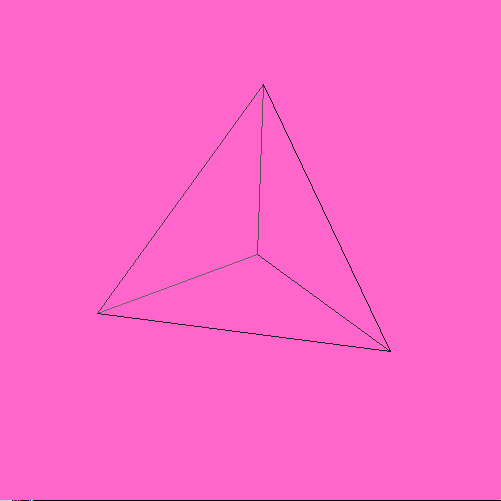
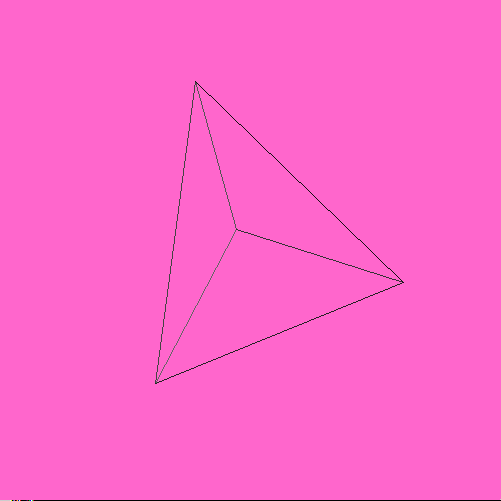
I filled the faces of the tetrahedron with color and added a loop for some basic animation (beware of infinite loop and file size).
Evidently Blender (and similar software) DO store info on the faces of the vertices. An algorithm for breaking general polyhedra (mesh models made by artists) into triangular faces has time complexity that outweighs the space cost of storing face info.

Note that tetrahedron vertices are still given inside of Cube.

diff --git a/Computer graphics algos/main.cpp b/Computer graphics algos/main.cpp
@@ -38,39 +38,47 @@ int main()
 
 		std::vector<Vec4> localCubeVerts = cube.getLocalCubeVerts();
 
-		/*Construct a Mesh that (possibly) applies transformations (rot, scale, trans) on the cube
-		* - this converts from "local" to "world" coordinates
-		*/
-		Vec4 rot(M_PI / 4, M_PI/6, M_PI/5, 0.0f); //units: radians, rotate about y-axis 45 degrees (w = 0.0f here?) 
-		Vec4 scale(1.0f, 1.0f, 1.0f, 0.0f); //again, not sure if w = 0.0f or 1.0f here 
-		Vec4 trans(0.0f, 0.0f, -3.0f, 1.0f); //ensure that z < 0.0f  (default camera pos) for zInit + zTrans
+		int loopCount = 0; 
 
-		Mesh mesh(localCubeVerts, trans, rot, scale);
-
-		std::vector<Vec4> worldCubeVerts = mesh.applyModelMatrix(); 
-
-		float fovY = (M_PI / 2);
-		Camera camera(fovY);
-
-		auto screenSpaceCubeVerts = camera.projectToScreen(worldCubeVerts, screenWidth, screenHeight);
-
-		std::vector<Color> colors; 
-		auto colorEnums = Color::getGrayColorPalette(); 
-		for (const auto& current : colorEnums)
+		while (true)
 		{
-			colors.push_back(Color(current));
-		}
-		//auto rasterPoints = cube.rasterize(screenSpaceCubeVerts);
-		auto rasteredPixels = cube.rasterize(screenSpaceCubeVerts, colors);
+			/*Construct a Mesh that (possibly) applies transformations (rot, scale, trans) on the cube
+			* - this converts from "local" to "world" coordinates
+			*/
+			Vec4 rot(M_PI/6.0f*loopCount, M_PI/5.0f * loopCount, M_PI / 4.0f * loopCount, 0.0f); //units: radians, rotate about y-axis 45 degrees (w = 0.0f here?) 
+			Vec4 scale(1.0f, 1.0f, 1.0f, 0.0f); //again, not sure if w = 0.0f or 1.0f here 
+			Vec4 trans(0.0f, 0.0f, -3.0f, 1.0f); //ensure that z < 0.0f  (default camera pos) for zInit + zTrans
 
-		ImageBMP image(screenWidth, screenHeight, ColorEnum::Pink);
+			Mesh mesh(localCubeVerts, trans, rot, scale);
 
-		//image.fillPixelMatrix(rasteredPoints, ColorEnum::Purple);
+			std::vector<Vec4> worldCubeVerts = mesh.applyModelMatrix(); 
 
-		image.fillPixelMatrix(rasteredPixels);
+			float fovY = (M_PI / 2);
+			Camera camera(fovY);
 
-		image.saveAsPNG("Cube_with_transformations_" + Utils::getTimestampForFilename() + ".png");
-		//camera.logCameraInfo("CameraLog" + Utils::getTimestampForFilename() + ".log");			
+			auto screenSpaceCubeVerts = camera.projectToScreen(worldCubeVerts, screenWidth, screenHeight);
+
+			std::vector<Color> colors; 
+			auto colorEnums = Color::getGrayColorPalette(); 
+			for (const auto& current : colorEnums)
+			{
+				colors.push_back(Color(current));
+			}
+			//auto rasterPoints = cube.rasterize(screenSpaceCubeVerts);
+			//auto rasteredPixels = cube.rasterize(screenSpaceCubeVerts, colors);
+			auto rasteredPixels = cube.filledRasterize(screenSpaceCubeVerts, colors);
+
+			ImageBMP image(screenWidth, screenHeight, ColorEnum::Pink);
+
+			//image.fillPixelMatrix(rasteredPoints, ColorEnum::Purple);
+
+			image.fillPixelMatrix(rasteredPixels);
+
+			image.saveAsPNG("TETRAHEDRON_" + Utils::getTimestampForFilename() + ".png");
+			//camera.logCameraInfo("CameraLog" + Utils::getTimestampForFilename() + ".log");	
+			 
+			loopCount++; 
+		}	
 	}
 
 	catch (const MyException& e)

diff --git a/Computer graphics algos/Cube.cpp b/Computer graphics algos/Cube.cpp
@@ -31,11 +31,29 @@ Cube::Cube()
 	//NOTE: this is a tetrahedron - just a temporary change
 	localCubeVerts = 
 	{
-		Vec4(1.0f, 1.0f, 1.0f, 1.0f),
-		Vec4(-1.0f, -1.0f, 1.0f, 1.0f),
-		Vec4(-1.0f, 1.0f, -1.0f, 1.0f),
-		Vec4(1.0f, -1.0f, -1.0f, 1.0f)
+		Vec4(1.0f, 1.0f, 1.0f, 1.0f), //top
+		Vec4(-1.0f, -1.0f, 1.0f, 1.0f), //left bottom front
+		Vec4(-1.0f, 1.0f, -1.0f, 1.0f),//left top back
+		Vec4(1.0f, -1.0f, -1.0f, 1.0f) //right bottom back
 	};
+
+
+
+	//now a "mystery object"
+
+	//localCubeVerts =
+	//{
+	//	Vec4(-1.0f, 0.0f, 0.0f, 1.0f),
+	//	Vec4(1.0f, 0.0f, 0.0f, 1.0f),
+	//	Vec4(0.0f, 1.0f, 0.0f, 1.0f),
+	//	Vec4(0.0f, -1.0f, 0.0f, 1.0f),
+	//	Vec4(0.0f, 0.0f, 1.0f, 1.0f),
+	//	Vec4(0.0f, 0.0f, -1.0f, 1.0f),
+	//	Vec4(0.5f, 0.5f, 0.5f, 1.0f),
+	//	Vec4(-0.5f, -0.5f, 0.5f, 1.0f),
+	//	Vec4(-0.5f, 0.5f, -0.5f, 1.0f),
+	//	Vec4(0.5f, -0.5f, -0.5f, 1.0f)
+	//};
 
 	//cubeEdgeIndices =
 	//{
@@ -51,6 +69,20 @@ Cube::Cube()
 		{1,2}, {1, 3}, {2, 3}
 	};
 
+	faceIndices = {
+		{0, 1, 2}, // top-left-front triangle
+		{0, 1, 3}, // top-left-back triangle
+		{0, 2, 3}, // top-right-back triangle
+		{1, 2, 3}  // bottom triangle
+	};
+
+	//cubeEdgeIndices = 
+	//{
+	//	{ 0,2 }, { 0,3 }, { 0,4 }, { 0,5 },
+	//	{ 1,2 }, { 1,3 }, { 1,4 }, { 1,5 },
+	//	{ 2,4 }, { 2,5 }, { 3,4 }, { 3,5 },
+	//	{ 6,7 }, { 7,8 }, { 8,9 }
+	//};
 }
 
 Cube::Cube(float xPos, float yPos, float scale, float zOffset)
@@ -109,6 +141,24 @@ std::vector<Edge> Cube::getCubeEdges(const std::vector<Vec2>& screenSpaceCubeVer
 	return edges; 
 }
 
+std::vector<Triangle> Cube::getFaces(const std::vector<Vec2>& screenSpaceVerts) const
+{
+	std::vector<Triangle> faces; 
+
+	for (const auto& index : faceIndices)
+	{
+		std::array<Vec2, 3> verts =
+		{
+			screenSpaceVerts[index[0]],
+			screenSpaceVerts[index[1]],
+			screenSpaceVerts[index[2]]
+		};
+		faces.push_back(verts);
+	}
+
+	return faces; 
+}
+
 std::vector<Vec2> Cube::rasterize(const std::vector<Vec2>& screenVerts)
 {
 	std::vector<Vec2> rasterPoints; 
@@ -142,6 +192,26 @@ std::unordered_map<Vec2, Color> Cube::rasterize(const std::vector<Vec2>& screenV
 		}
 	}
 	return positionsToColors;
+}
+
+std::unordered_map<Vec2, Color> Cube::filledRasterize(const std::vector<Vec2>& screenVerts, const std::vector<Color>& colors)
+{
+	std::unordered_map<Vec2, Color> positionsToColors;
+
+	auto faces = getFaces(screenVerts); 
+
+	for (int i = 0; i < faces.size(); ++i)
+	{
+		auto points = faces[i].getPointsThatFillTriangle(); 
+		Color currentColor = colors[i % colors.size()];
+
+		for (const auto& point : points)
+		{
+			positionsToColors.insert({ point, currentColor });
+		}
+	}
+
+	return positionsToColors; 
 }
 
 #pragma endregion

diff --git a/Computer graphics algos/Cube.h b/Computer graphics algos/Cube.h
@@ -4,7 +4,10 @@
 
 #include "Edge.h"
 #include "ImageBMP.h"
+#include"Triangle.h"
 #include "Vec4.h"
+
+
 
 class Polyhedron
 {
@@ -31,6 +34,9 @@ private:
 	/*A la "index buffer"*/
 	std::vector<std::pair<int, int>> cubeEdgeIndices;
 
+	/*NOTE: this is only for a tetrahedron (which has 3 faces) at the moment*/
+	std::vector<std::array<int, 3>> faceIndices; 
+
 public: 
 	Cube(); 
 	/*@brief NOTE: by convention, z = 0 is taken as camera (eye) plane
@@ -40,14 +46,21 @@ public:
 	std::vector<Vec4> getLocalCubeVerts();
 	/*A la "index buffer"*/
 
-	/*Obtains the lines between the vertices*/
+	/*Obtains the lines between the vertices (color is determined later by client)*/
 	std::vector<Vec2> rasterize(const std::vector<Vec2>& screenVerts);
 
+	/*Obtains the lines between the vertices and applies particular colors*/
 	std::unordered_map<Vec2, Color> rasterize(const std::vector<Vec2>& screenVerts,
+		const std::vector<Color>& colors);
+
+	std::unordered_map<Vec2, Color> filledRasterize(const std::vector<Vec2>& screenVerts,
 		const std::vector<Color>& colors);
 
 private: 
 	std::vector<Edge> getCubeEdges(const std::vector<Vec2>& screenSpaceCubeVerts);
+
+	/*ONLY works for tetrahedron at the moment*/
+	std::vector<Triangle> getFaces(const std::vector<Vec2>& screenSpaceVerts) const;
 };
 
 class Tetrahedron : public Polyhedron

diff --git a/Computer graphics algos/Triangle.h b/Computer graphics algos/Triangle.h
@@ -52,3 +52,5 @@ private:
 };
 
 
+
+
